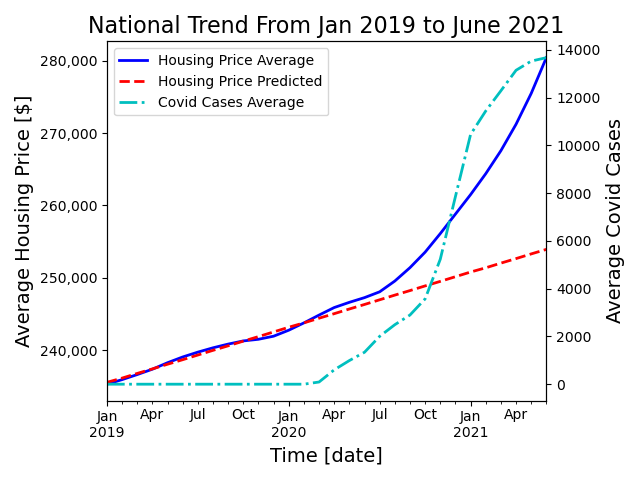
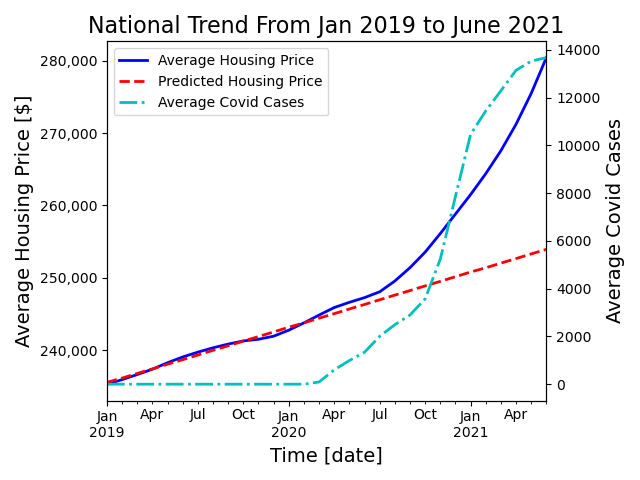
update legend

Changed region(s): [[0.25, 0.0938, 0.5, 0.25]]

diff --git a/main.py b/main.py
@@ -5,7 +5,6 @@ from sklearn.linear_model import LinearRegression
 import numpy as np
 import datetime as dt
 from textwrap import wrap
-import seaborn as sns
 import warnings
 warnings.filterwarnings('ignore')
 
@@ -62,11 +61,11 @@ def covid(df_z,df_p,df_d,df_c,df_r,df_i,df_s,df_pol):
 
     #plot average
     covid_average = pd.concat([df_c_average_T["average"],df_d_average_T["average"]],axis=1)
-    covid_average.columns=["Covid Cases Average", "Covid Death Average"]
+    covid_average.columns=["Average Covid Cases", "Average Covid Death"]
     z_average = df_z_average_T[['average','predicted']]
-    z_average.columns = ["Housing Price Average", "Housing Price Predicted"]
+    z_average.columns = ["Average Housing Price", "Predicted Housing Price"]
     average_plot = pd.concat([covid_average, z_average], axis=1)
-    average_plot = average_plot[pd.notnull(average_plot["Housing Price Average"])]
+    average_plot = average_plot[pd.notnull(average_plot["Average Housing Price"])]
     average_plot = average_plot.fillna(0)
 
     fig, ax = plt.subplots()
